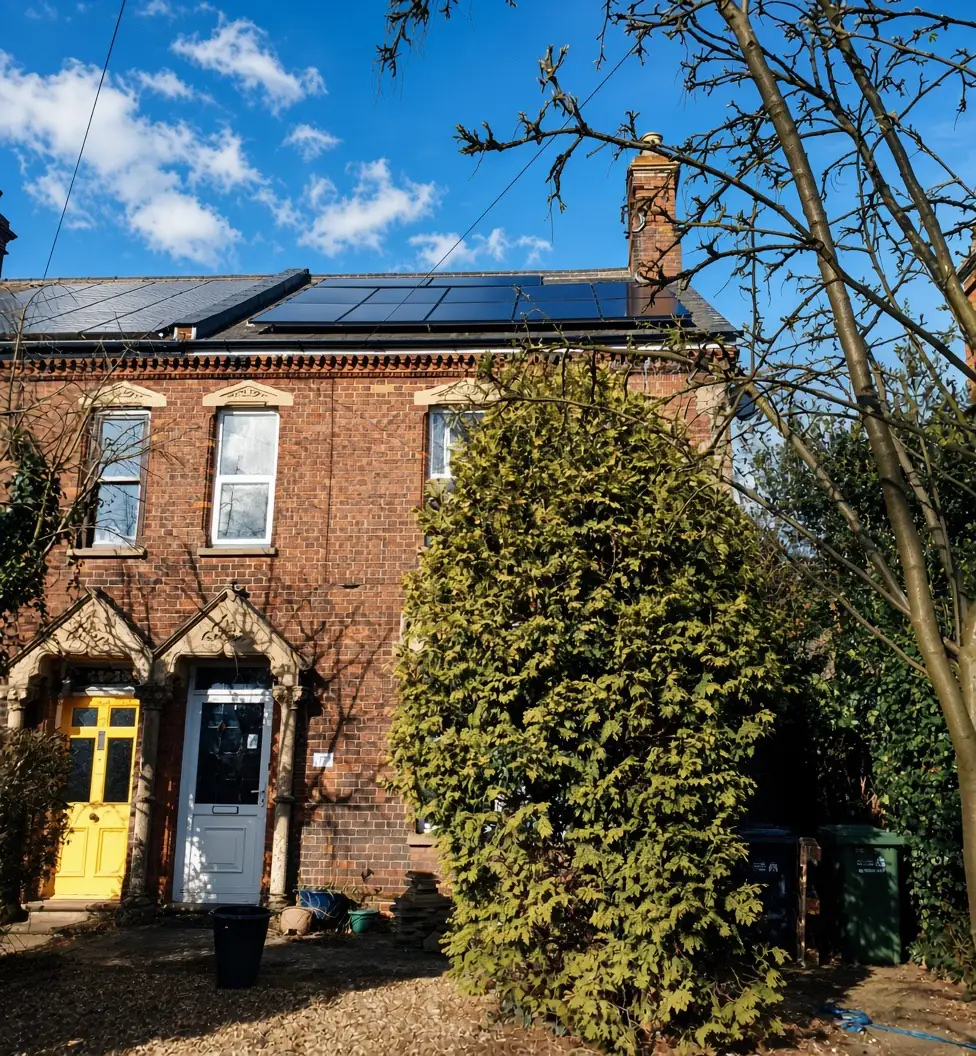
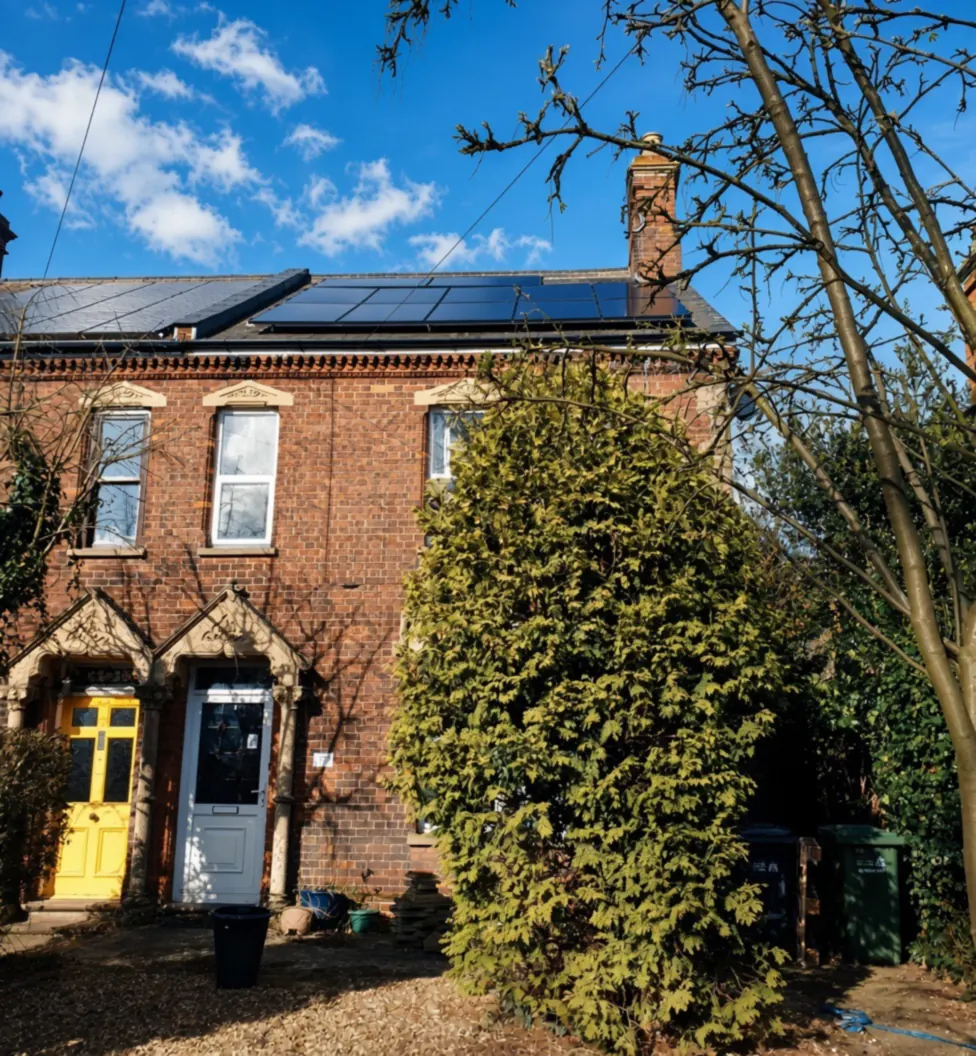
perf(gallery): lighter red-brick photo, phone-sized thumbnails, one caption per photo
Rendered and measured at 390 and 1440 on a production build:
- The red-brick semi photo (a bare tree in front) came out at 212 KB and the
  optimiser's 640 px AVIF at 120 KB. A 0.7 px blur before encoding takes the
  file to 180 KB and the 640 px AVIF to 92 KB with no visible loss.
- The thumbnails claimed 22vw, which asked for 384 px images on a 3x phone.
  They are 80 to 90 px boxes; sizes="80px" serves the 256 px variant.
- The caption sat on the photo and again as the card heading, side by side
  on a phone. It stays on the card only.

diff --git a/src/components/solar/CustomerInstalls.tsx b/src/components/solar/CustomerInstalls.tsx
@@ -152,10 +152,6 @@ function SwipeGallery({
 
             <div className="absolute inset-0 bg-gradient-to-t from-black/70 via-black/10 to-black/20" />
             <div className="absolute inset-0 bg-gradient-to-r from-black/30 via-transparent to-transparent" />
-
-            <div className="absolute bottom-0 left-0 right-0 p-5 sm:p-6 pb-4">
-              <p className="text-sm font-semibold text-white">{installs[activeIndex].caption}</p>
-            </div>
           </motion.div>
         </AnimatePresence>
       </div>
@@ -252,7 +248,7 @@ function SpecCard({ install, onViewGallery, onOpenLightbox }: { install: (typeof
                 src={inst.src}
                 alt=""
                 fill
-                sizes="(max-width: 1024px) 22vw, 96px"
+                sizes="80px"
                 className="object-cover"
                 draggable={false}
               />
